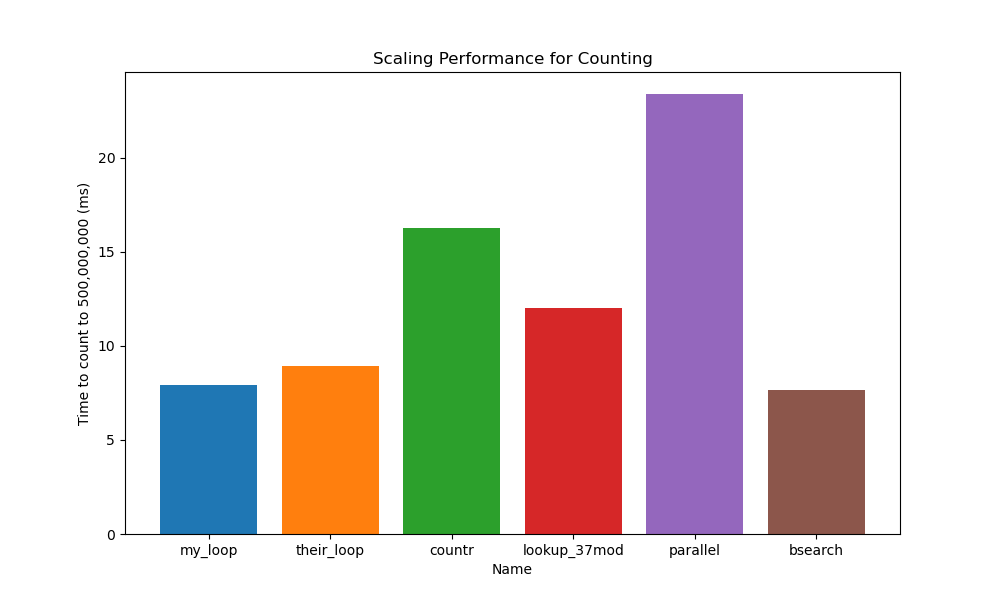
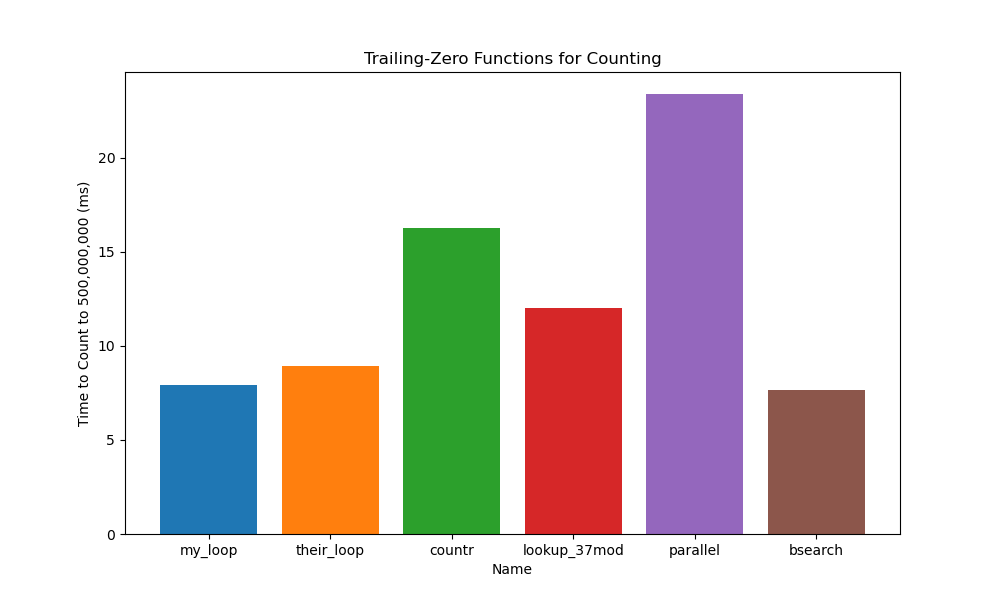
tweaked graphs and created trailing/README

Changed region(s): [[0.062, 0.3, 0.093, 0.72], [0.372, 0.09, 0.682, 0.12]]

diff --git a/src/trailing/display.py b/src/trailing/display.py
@@ -25,9 +25,9 @@ def show_range():
     plt.figure(figsize=(10, 6))
     for i in range(len(names)):
         plt.bar(names[i], times[i])
-    plt.title("Scaling Performance for Counting")
+    plt.title("Trailing-Zero Functions for Counting")
     plt.xlabel("Name")
-    plt.ylabel("Time to count to 500,000,000 (ms)")
+    plt.ylabel("Time to Count to 500,000,000 (ms)")
     plt.show()
 
 

diff --git a/src/trailing/README.md b/src/trailing/README.md
@@ -1,0 +1,56 @@
+# Trailing Zeros Functions
+
+I was trying to figure out what function would be best for computing
+the number of trailing zeros of any number in my program. The
+function would be used many times in the program on bitboards, so
+it's crucial that it's as fast as possible. So, I wrote a C++ program to
+help me pick out a function!
+
+## What functions are there?
+
+There are a total of six functions, however I pulled most of them from
+[this bit twiddling site](https://graphics.stanford.edu/~seander/bithacks.html).
+The `my_loop` function is one I made myself, and the `countr` 
+function refers to C++'s standard library function called by 
+`std::__countr_zero`.
+
+## What does it do?
+
+The `trailing.cpp` program does two things:
+
+1. For each bit in a 64 bit, unsigned integer, the program computes how 
+long it takes each function to count the number of zeros behind that bit
+five million times.
+
+2. It also computes how long it takes each function to count the number of 
+zeros from one to five hundred million.
+
+It then takes the data from these runs and puts it into `discrete.csv` and 
+`range.csv`, respectively.
+
+You can visualize this data with `display.py`, which illustrates how each 
+function compares in these two trials.
+
+## My Results
+
+![first trial results](discrete.png)
+![first trial results](range.png)
+
+Well, the loops perform terribly at large numbers. However, they tend to 
+perform better when counting since the vast majority of integers have a 1 
+within the first few bits. Since bitboards aren't exactly a form of 
+counting, the performance at evaluating large numbers should be 
+prioritized.
+
+That said, I'll end up using the `lookup_37mod` function since it seems to 
+perform well in both situations.
+
+## How to Use
+
+Simply enter these commands when in the `/src/trailing` directory:
+
+```
+make
+./trailing
+python display.py
+```
